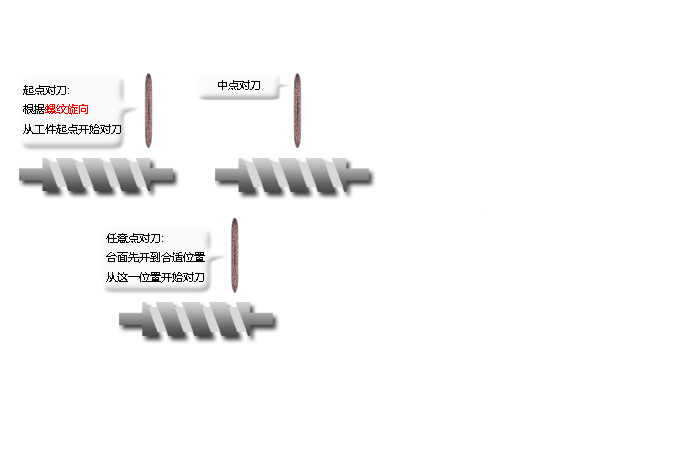
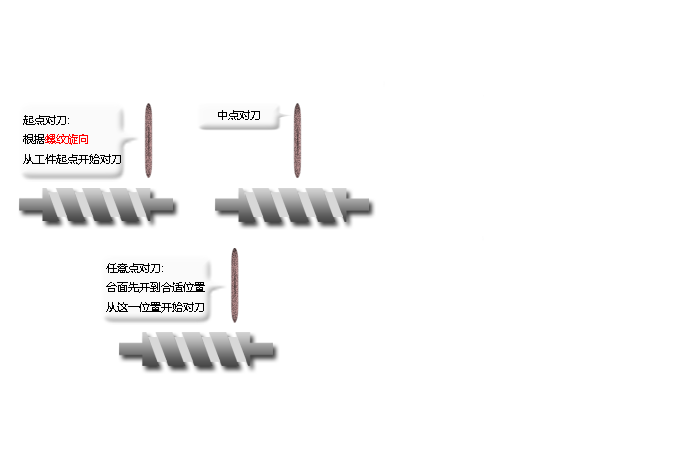
任意点对刀位置输入

diff --git a/Source_Library/Parameter_Index.md b/Source_Library/Parameter_Index.md
@@ -331,6 +331,7 @@
 |INI[131]||磨削中心：外圆测量合适角度
 |INI[132]||滚压轮修整退出距离
 |INI[133]||磨削中心：外圆测量跳动值
+|INI[134]||任意点对刀位置输入
 |||
 |**对刀(TOOL_SET)**||
 |TOOL_SET[0]|RANDOM_POS|初始对刀点Z轴坐标
